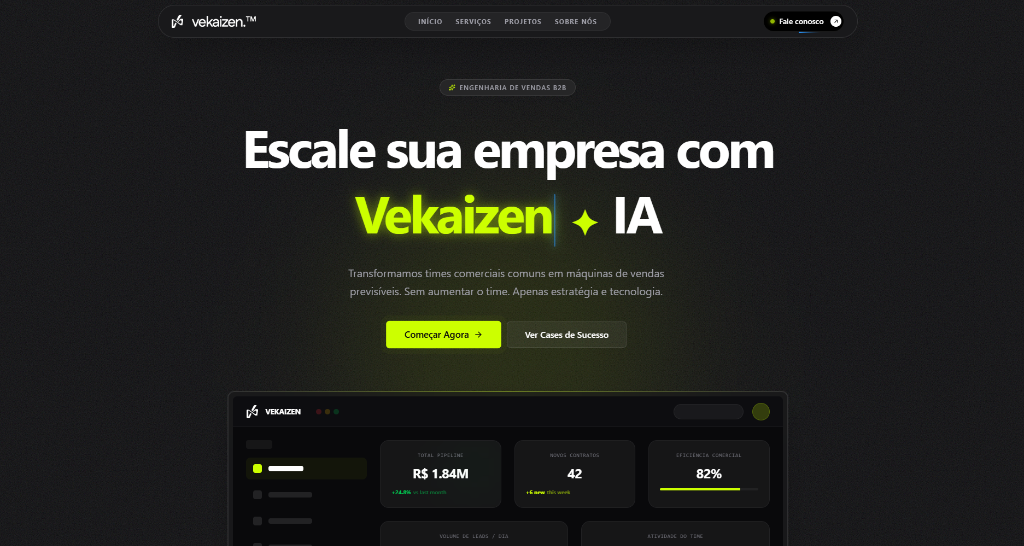
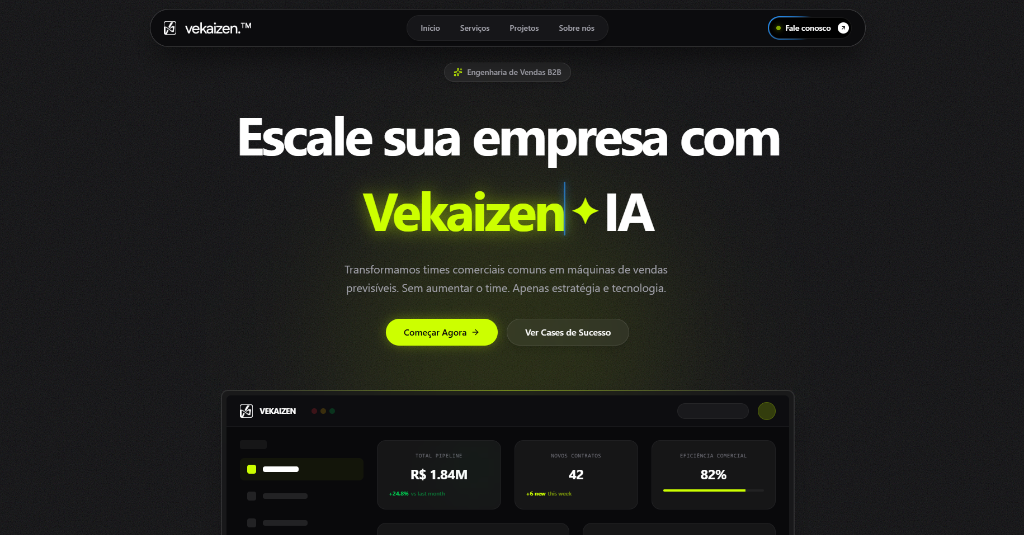
30/12/25

diff --git a/src/components/sections/Contact.tsx b/src/components/sections/Contact.tsx
@@ -21,14 +21,14 @@ export const Contact = () => {
                             Pronto para <br />
                             <span className="text-zinc-600">escalar?</span>
                         </h2>
-                        <BlurReveal className="text-lg text-zinc-400 mb-8 max-w-md" delay={0.2}>
+                        <BlurReveal className="text-lg text-zinc-400 mb-8 max-w-xl" delay={0.2}>
                             Agende uma sessão estratégica gratuita. Vamos analisar sua operação atual e mostrar onde estão os gargalos&nbsp;de&nbsp;crescimento.
                         </BlurReveal>
 
                         <div className="flex flex-col gap-4 text-zinc-500">
-                            <p>contato@vekaizen.com</p>
-                            <p>São Paulo, Brasil</p>
-                            <div className="flex items-center gap-2 pt-2">
+                            <p className="border-b border-white/10 pb-1 w-fit">contato@vekaizen.com</p>
+                            <p className="border-b border-white/10 pb-1 w-fit">São Paulo, Brasil</p>
+                            <div className="flex items-center gap-2 pt-2 border-b border-white/10 pb-1 w-fit">
                                 <svg xmlns="http://www.w3.org/2000/svg" width="20" height="20" viewBox="0 0 24 24" fill="none" stroke="currentColor" strokeWidth="2" strokeLinecap="round" strokeLinejoin="round" className="text-green-500"><path d="M3 21l1.65-3.8a9 9 0 1 1 3.4 2.9L3 21" /><path d="M9 10a.5.5 0 0 0 1 0V9a.5.5 0 0 0-1 0v1a5 5 0 0 0 5 5h1a.5.5 0 0 0 0-1h-1a.5.5 0 0 0 0 1" /><path d="M8 8.5A2.5 2.5 0 0 0 10.5 11h.5a2.5 2.5 0 0 0 0-5H10.5A2.5 2.5 0 0 0 8 8.5" opacity="0" /><path d="M14.05 15.25a2.75 2.75 0 0 0 2.2-2.75V12.5a.5.5 0 0 0-.5-.5h-1a.5.5 0 0 0-.5.5v.5a.5.5 0 0 0 .5.5h.5a.5.5 0 0 1 .5.5v.5a.5.5 0 0 1-.5.5h-.5a.5.5 0 0 1-.5-.5v-.5a.5.5 0 0 0-1 0v.5a1.5 1.5 0 0 0 1.5 1.5h.5a1.5 1.5 0 0 0 1.5-1.5z" opacity="0" /><path d="M21 11.5a8.38 8.38 0 0 1-.9 3.8 8.5 8.5 0 0 1-7.6 4.7 8.38 8.38 0 0 1-3.8-.9L3 21l1.9-5.7a8.38 8.38 0 0 1-.9-3.8 8.5 8.5 0 0 1 4.7-7.6 8.38 8.38 0 0 1 3.8-.9h.5a8.48 8.48 0 0 1 8 8v.5z" /></svg>
                                 <span>+55 (11) 91558-1529</span>
                             </div>

diff --git a/src/components/sections/Footer.tsx b/src/components/sections/Footer.tsx
@@ -29,8 +29,18 @@ export const Footer = () => {
 
                 <div className="pt-8 border-t border-white/5 flex flex-col md:flex-row justify-between items-center gap-4">
                     <p className="text-xs text-zinc-600">
-                        © {new Date().getFullYear()} Vekaizen. Todos os direitos reservados.
+                        © 2026 Vekaizen. Todos os direitos reservados.
                     </p>
+
+                    {/* Developer Credits */}
+                    <div className="flex flex-col items-center gap-2">
+                        <span className="text-[10px] text-zinc-600 uppercase tracking-widest font-medium">Desenvolvido por</span>
+                        <div className="flex items-center gap-3 opacity-30 bg-white/5 px-4 py-2 rounded-full border border-white/5">
+                            <Image src="/logo-vekaizen.png" alt="Vekaizen Logo" width={20} height={20} className="w-5 h-5 object-contain grayscale" />
+                            <Image src="/logo-text.png" alt="Vekaizen" width={80} height={16} className="h-4 w-auto grayscale" />
+                        </div>
+                    </div>
+
                     <div className="flex items-center gap-4">
                         <Link href="https://www.linkedin.com/company/vekaizen/" target="_blank" className="text-zinc-600 hover:text-white transition-colors"><Linkedin className="w-5 h-5" /></Link>
                         <Link href="https://www.instagram.com/vekaizen/" target="_blank" className="text-zinc-600 hover:text-white transition-colors"><Instagram className="w-5 h-5" /></Link>

diff --git a/src/components/sections/Hero.tsx b/src/components/sections/Hero.tsx
@@ -251,7 +251,7 @@ const Typewriter = ({ words, defaultColor, accentColor, accentWord }: { words: s
         >
             <span className="relative inline-flex items-center">
                 {/* Active (Typed) Text */}
-                <span className={`${activeClass} transition-colors duration-300 ${isAccent ? "drop-shadow-[0_0_15px_rgba(204,255,0,0.5)]" : ""}`}>
+                <span className={`${activeClass} transition-colors duration-300 ${isAccent ? "drop-shadow-[0_0_5px_rgba(204,255,0,0.5)] md:drop-shadow-[0_0_15px_rgba(204,255,0,0.5)]" : ""}`}>
                     {currentWord.substring(0, subIndex)}
                 </span>
 
